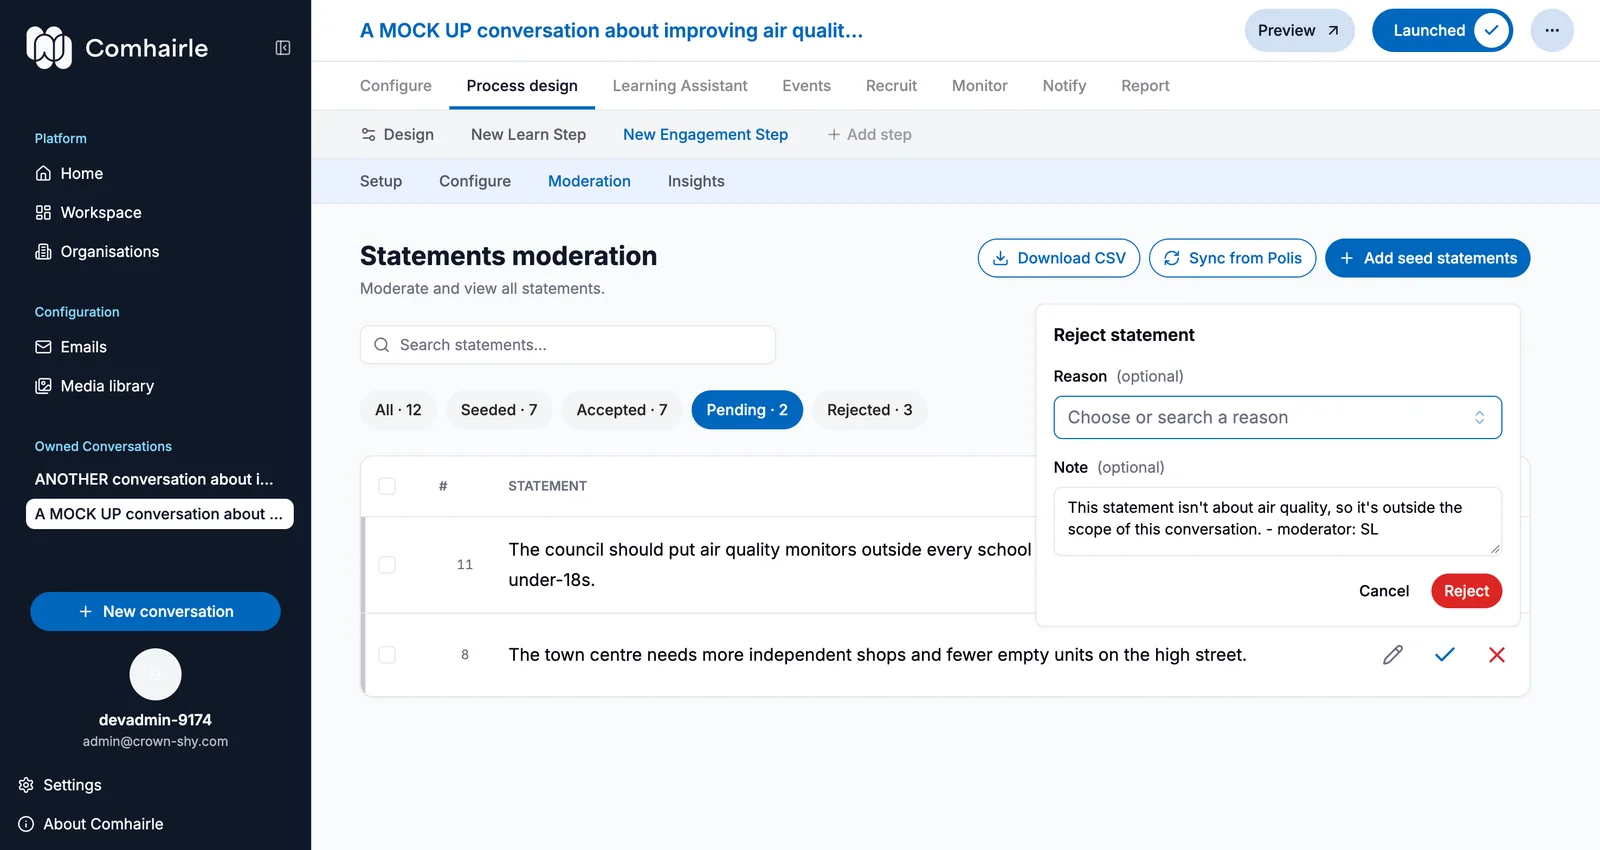
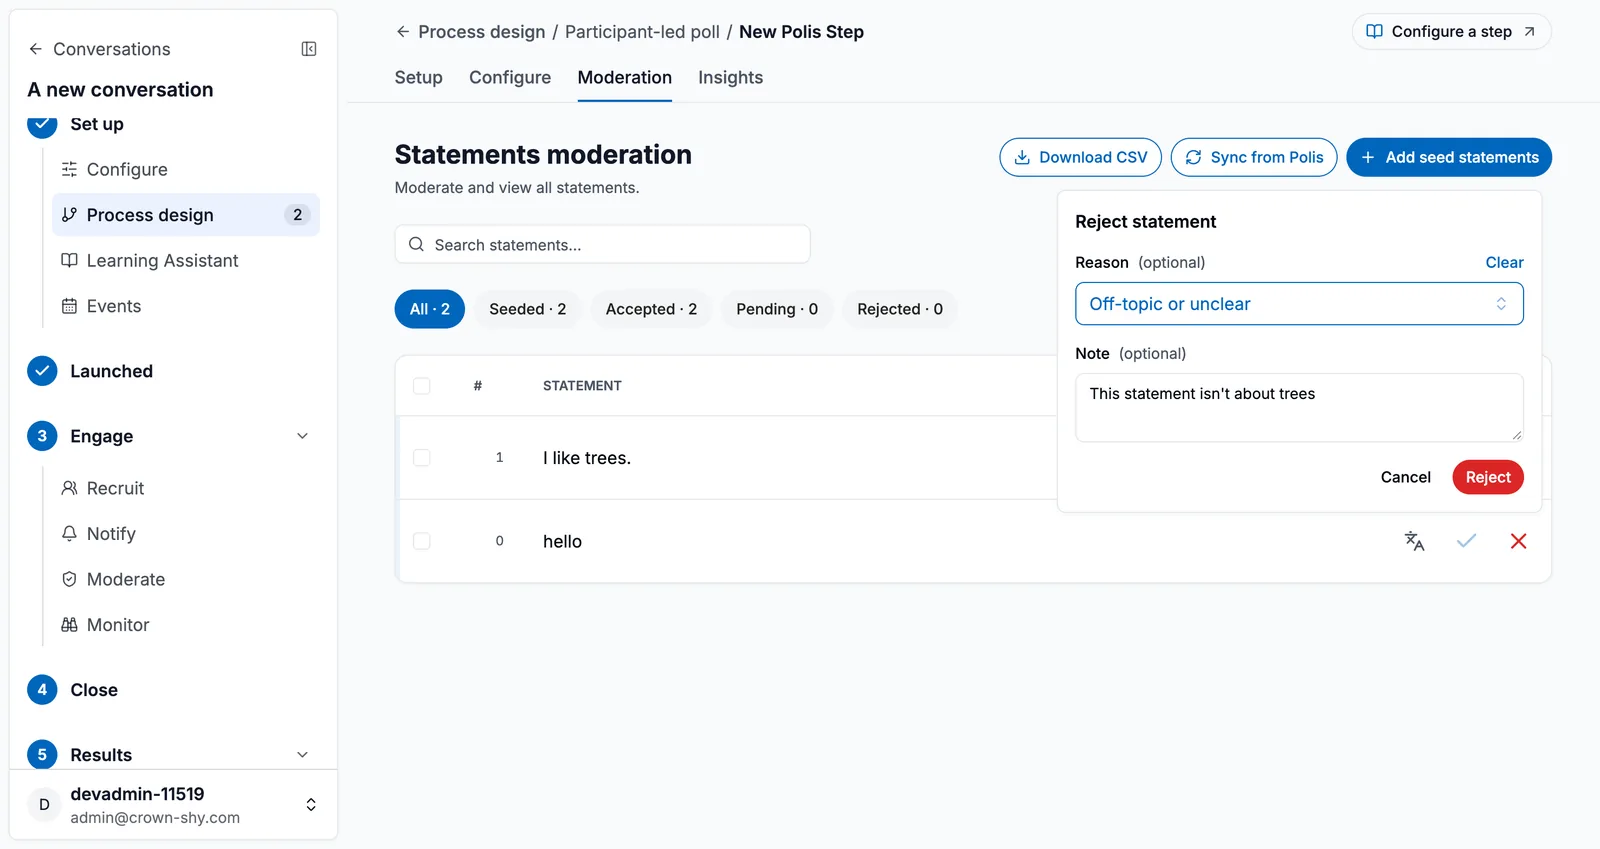
Retake moderation in depth, reject and split screenshots

diff --git a/ui/packages/comhairle/src/lib/admin_guides.ts b/ui/packages/comhairle/src/lib/admin_guides.ts
@@ -34,9 +34,13 @@ import arrangeStepOrderImage from './assets/admin-guide/arrange-step-order.webp'
 import configureAStepImage from './assets/admin-guide/configure-a-step.webp';
 import configureAccessImage from './assets/admin-guide/configure-access.webp';
 import launchAConversationImage from './assets/admin-guide/launch-a-conversation.webp';
+import launchedImage from './assets/admin-guide/launched.webp';
 import recruitImage from './assets/admin-guide/recruit.webp';
 import monitorImage from './assets/admin-guide/monitor.webp';
 import moderateImage from './assets/admin-guide/moderate.webp';
+import stepNavigationImage from './assets/admin-guide/step-navigation.webp';
+import moderationInDepthImage from './assets/admin-guide/moderation-in-depth.webp';
+import closeAConversationImage from './assets/admin-guide/close-a-conversation.webp';
 import toggleRevisitAfterFinishImage from './assets/admin-guide/toggle-revisit-after-finish.webp';
 import rejectStatementImage from './assets/admin-guide/reject-statement.webp';
 import splitStatementImage from './assets/admin-guide/split-statement.webp';
@@ -413,12 +417,12 @@ export const ADMIN_GUIDES: Record<string, AdminGuide> = {
 					'Start with a ready-made conversation flow, then adapt the [steps](/admin/info/glossary#term-step) to suit your topic and what you want participants to do.',
 				image: {
 					src: chooseATemplateImage,
-					alt: "The Choose a template window. Templates such as Informed-participants survey and Citizen workshop are listed on the left, with the selected template's workflow steps on the right and an Apply template button."
+					alt: "The Choose a template window. Templates such as Informed-participants survey, Understand opinion groups and Citizen workshop are listed on the left, with the selected template's workflow steps on the right and a Get started button."
 				},
 				steps: [
 					'Before choosing a template, consider what you want to learn from the conversation, what you want participants to contribute, how they will contribute, and what they need to know first.',
 					'Go to **Process design** and click **Choose from templates**.',
-					'Choose a template that best matches the conversation you want to run.',
+					'Choose a template that best matches the conversation you want to run, then click **Get started**.',
 					'Adapt the template by adding, removing, or rearranging steps.'
 				],
 				tips: [
@@ -434,13 +438,13 @@ export const ADMIN_GUIDES: Record<string, AdminGuide> = {
 					'Build your own conversation flow by deciding what participants need to learn, consider, and contribute at each step.',
 				image: {
 					src: designStepsImage,
-					alt: "The Add a step window, listing step types such as Topic onboarding, Participant-led poll and Survey. The selected tool's description, examples and Best for list appear on the right, with an Add this step button."
+					alt: "The Add a step window. Step types such as Topic onboarding, Participant-led poll, Survey and Individual view exploration are listed on the left. The selected type's description, a link to its Introduction & setup guide, examples and a Best for list appear on the right, with an Add this step button."
 				},
 				steps: [
 					'Before designing your steps, consider what you want to learn from the conversation, what you want participants to contribute, how they will contribute, and what they need to know first.',
 					'Go to **Process design** and choose **Start from blank**.',
 					'Click **Add step**. You’ll be asked to choose an [engagement tool](/admin/info/glossary#term-engagement-tool) for the step, based on what you want participants to do.',
-					'Choose a tool to add the step to your conversation.',
+					'Choose a tool, then click **Add this step** to add it to your conversation.',
 					'Repeat this for each stage of your conversation, then arrange the steps in the order you want participants to go through them.'
 				],
 				tips: [
@@ -458,13 +462,13 @@ export const ADMIN_GUIDES: Record<string, AdminGuide> = {
 					'Set the order of your [steps](/admin/info/glossary#term-step). Participants will go through them from top to bottom.',
 				image: {
 					src: arrangeStepOrderImage,
-					alt: "The Process steps page with two step cards. A step's actions menu is open, showing Move up, Move down, Rename, Learn more and Delete."
+					alt: "Process design with two step cards, New Survey Step and New Polis Step. The second step's actions menu is open, showing Move up, Move down, Rename, Learn more and Delete."
 				},
 				steps: [
 					'Go to **Process design**.',
 					'Drag a step card up or down to change its position.',
 					'Alternatively, open the step’s actions menu :actions: and select **Move up** or **Move down**.',
-					'You can also use this menu to **Rename** or **Delete** a step.'
+					'You can also use this menu to **Rename** or **Delete** a step, or select **Learn more** to read about its engagement tool.'
 				],
 				tips: [
 					'Think about the participant journey when ordering your steps: what do they need to know or consider before moving on to the next activity?',
@@ -606,10 +610,22 @@ export const ADMIN_GUIDES: Record<string, AdminGuide> = {
 				navLabel: 'Launch a conversation',
 				summary:
 					'[Launch](/admin/info/glossary#term-launch) your conversation when it is ready for participants to take part.',
-				image: {
-					src: launchAConversationImage,
-					alt: 'The Launch page. Before you launch lists Preview it as a participant, Process design, Details and access, and Team. Below it, a warning box explains what happens when you launch, above the Launch conversation button, highlighted in yellow.'
-				},
+				images: [
+					{
+						src: launchAConversationImage,
+						alt: 'The Launch page. Before you launch lists Preview it as a participant, Process design, Details and access, and Team. Below it, a warning box explains what happens when you launch, above the Launch conversation button, highlighted in yellow.',
+						caption:
+							'The Launch page, with the Launch conversation button below Before you launch.',
+						step: 3
+					},
+					{
+						src: launchedImage,
+						alt: 'The Launched page, confirming Your conversation is launched, with a Conversation link card (Copy link and Open buttons) and Next steps such as Invite participants, Keep participants informed and Follow participation.',
+						caption:
+							'After launching, the page shows your conversation link and what to do next.',
+						step: 4
+					}
+				],
 				steps: [
 					'Open **Launch** in the sidebar.',
 					'Work through **Before you launch**, including a final **Preview**, to make sure everything is ready.',
@@ -636,10 +652,11 @@ export const ADMIN_GUIDES: Record<string, AdminGuide> = {
 					'Once your conversation is launched, use **Recruit** to invite people to take part by link, QR code or email.',
 				image: {
 					src: recruitImage,
-					alt: 'The Recruit page on its Email tab, with an Emails field for a comma-separated list of addresses, Invite valid for options and a Submit button, above the Email Invite List. Open Links and Physical tabs are at the top.'
+					alt: 'The Recruit page on its Email tab. A Conversation link card with Copy link and Open buttons sits above an Emails field, Invite valid for options and a Submit button. Open Links and Physical tabs are at the top.'
 				},
 				steps: [
 					'Open **Recruit**. It becomes available after you launch the conversation.',
+					'Under **Conversation link**, click **Copy link** to share the conversation’s main link, or **Open** to check it.',
 					'Go to **Open Links**.',
 					'Click **New Invite Link** to create a link you can share. Give it a **Label**, such as "Newsletter" or "Town hall", so you can tell your links apart.',
 					'Copy the **Link**, or use its **QR code** on posters and at in-person events.',
@@ -659,7 +676,7 @@ export const ADMIN_GUIDES: Record<string, AdminGuide> = {
 					'Use **Monitor** to see how many people are taking part, how far they get through your steps, and how long it takes them.',
 				image: {
 					src: monitorImage,
-					alt: 'The Monitor page. Overview shows Total Users, Active Now, Time Spent and Completed, above a Daily signups chart.'
+					alt: 'The Monitor page under Engage. Overview shows Total Users, Active Now, Time Spent and Completed, above a Daily signups chart with Signups and Active counts.'
 				},
 				steps: [
 					'Open **Monitor**. It becomes available after you launch the conversation.',
@@ -701,7 +718,7 @@ export const ADMIN_GUIDES: Record<string, AdminGuide> = {
 					'Send a message to everyone who has taken part in your conversation, for example to share an update or invite them back.',
 				image: {
 					src: notifyImage,
-					alt: 'The Notify page, with Delivery method set to In-app notification, Notification title and Message content fields, a Send notification to all participants button, and a Recipients preview showing how many participants will receive it.'
+					alt: 'The Notify page under Engage, with Delivery method set to In-app notification, Notification title and Message content fields and a Send notification to all participants button. A Recipients preview on the right shows who will receive it.'
 				},
 				steps: [
 					'Open **Notify**. It becomes available after you launch the conversation.',
@@ -724,11 +741,11 @@ export const ADMIN_GUIDES: Record<string, AdminGuide> = {
 					'In a Participant-led poll, participants can write their own statements. Moderate them so that only appropriate statements are shown to others.',
 				image: {
 					src: moderateImage,
-					alt: 'The Moderation tab of a Participant-led poll step. Statements can be filtered by All, Seeded, Accepted, Pending and Rejected, and the Reject statement window lists reasons such as Off-topic or unclear, Harmful or abusive, and Advertising or campaigning.'
+					alt: 'The Moderation tab of a Participant-led poll step in Process design. Statements moderation has Download CSV, Sync from Polis and Add seed statements buttons, a search box, the All, Seeded, Accepted, Pending and Rejected filters, and a list of statements. The Reject statement popover is open, with an optional Reason and Note, and Cancel and Reject buttons.'
 				},
 				steps: [
 					'Before you launch, set your reasons for rejecting statements, such as "Off-topic", under **Configure** → **Moderation policy**.',
-					'Open **Moderate** under **Engage** in the sidebar, then click **Moderate step** on the Participant-led poll step.',
+					'In **Process design**, open the Participant-led poll step and go to its **Moderation** tab.',
 					'Filter statements by **Pending**, **Accepted**, **Rejected**, **Seeded** or **All**, or search for a word.',
 					'Accept or reject each statement. When you reject a statement, choose a reason from your moderation policy.'
 				],
@@ -752,11 +769,12 @@ export const ADMIN_GUIDES: Record<string, AdminGuide> = {
 					'Use **Report** to summarise what came out of your conversation, record its impact, and share the results.',
 				image: {
 					src: reportImage,
-					alt: 'The Report page, with View Report and Publish Report at the top and a Summary editor containing an executive summary of participants, statements and votes cast.'
+					alt: 'The Report page under Results, with View Report and a Publish Report switch at the top, then a Summary editor and a Report body editor, each with formatting tools and an Embed report component button.'
 				},
 				steps: [
 					'Open **Report**. It becomes available after you launch the conversation.',
-					'Under **Summary**, write an overall summary of the conversation.',
+					'Under **Summary**, write a short introduction. It appears at the top of the public report.',
+					'Under **Report body**, write the full report. Click **Embed report component** to add findings from the conversation, such as charts, into the text.',
 					'Under **Facilitator Notes**, click **Add feedback** to record notes gathered by facilitators.',
 					'Under **Impacts**, click **Add an impact** to record what the conversation has led to, and choose an **Impact Type**: **Policy**, **Debate** or **Followup Conversation**.',
 					'Turn on **Publish Report** to make the report public, then click **View Report** to see it as others will.'
@@ -772,6 +790,10 @@ export const ADMIN_GUIDES: Record<string, AdminGuide> = {
 				navLabel: 'Close a conversation',
 				summary:
 					'Close your conversation when the engagement period is over. Participants can no longer take part, and everything collected so far stays available.',
+				image: {
+					src: closeAConversationImage,
+					alt: 'The Close page, with a Before you close checklist: Let participants know, Check final participation and Start your report. Below it, a What happens when you close box explains that participants can no longer take part, everything collected stays available in Monitor and Report, and the conversation can be re-opened. A Close conversation button sits at the bottom.'
+				},
 				steps: [
 					'Open **Close** in the sidebar. It becomes available after you launch the conversation.',
 					'Work through **Before you close**: let participants know, check the final numbers in **Monitor**, and start your **Report**.',
@@ -799,9 +821,10 @@ export const ADMIN_GUIDES: Record<string, AdminGuide> = {
 				summary:
 					'Get to know the [moderation](/admin/info/glossary#term-moderation) screen for a Participant-led poll, then work through the decision each new statement needs and how to carry it out.',
 				image: {
-					src: moderateImage,
-					alt: 'The Statements moderation screen, with Download CSV, Sync from Polis and Add seed statements buttons above a search box, the All, Seeded, Accepted, Pending and Rejected tabs, and a list of statements with edit, accept and reject icons.',
-					caption: 'The moderation screen for a Participant-led poll step.'
+					src: moderationInDepthImage,
+					alt: 'The Moderation tab of a Participant-led poll step, filtered to Accepted. Two statements have an Edited badge and Edited from: the original statement about park benches and bins. Each row has translate, pencil, tick and cross icons, and Download CSV, Sync from Polis and Add seed statements buttons sit above the search box and filters.',
+					caption:
+						'The moderation screen for a Participant-led poll step, showing two statements split from one.'
 				},
 				environment: {
 					title: 'The moderation screen',
@@ -867,7 +890,7 @@ export const ADMIN_GUIDES: Record<string, AdminGuide> = {
 							result: 'The statement moves to **Rejected** and is hidden from participants. The reason and note are kept in the moderation log for your team; participants are not told why.',
 							image: {
 								src: rejectStatementImage,
-								alt: 'The Reject statement popover next to a pending statement about high street shops, with an empty Reason field, a Note reading "This statement isn’t about air quality, so it’s outside the scope of this conversation. - moderator: SL", and Cancel and Reject buttons.',
+								alt: 'The Reject statement popover open on a statement’s row, with the Reason "Off-topic or unclear" chosen, a Note reading "This statement isn’t about trees", and Cancel and Reject buttons.',
 								caption:
 									'Rejecting an off-topic statement, with a note for the moderation log.'
 							}
@@ -883,7 +906,7 @@ export const ADMIN_GUIDES: Record<string, AdminGuide> = {
 							result: 'The new statements are posted and appear in **Accepted** with an **Edited** badge and **Edited from:** the original. The original is rejected. Votes do not carry over to the new statements.',
 							image: {
 								src: splitStatementImage,
-								alt: 'The Split or reword statement dialog. The original statement asks for air quality monitors outside every school and free buses for under-18s; below it are two replacement statements, one for each proposal, with Add another statement and Split statement buttons.',
+								alt: 'The Split or reword statement dialog. The original statement, "The park needs more benches near the playground and the bins should be emptied more often.", is split into two replacement statements, one about benches and one about bins, with Add another statement, Cancel and Split statement buttons.',
 								caption:
 									'Splitting a statement that makes two proposals into two separate statements.'
 							}
@@ -1043,8 +1066,8 @@ export const ADMIN_GUIDES: Record<string, AdminGuide> = {
 				summary:
 					'Three settings decide whether participants can skip steps, go back to them, and return after they have finished. Their effects overlap, so make these decisions together.',
 				image: {
-					src: configureAStepImage,
-					alt: 'A step’s Configure tab in Process design, showing its settings.',
+					src: stepNavigationImage,
+					alt: 'A step’s Configure tab in Process design, with Name, Description and Data protocol fields. Below them, highlighted, are the Revisitable step toggle (Can users revisit this step?), turned off, and the Required step toggle (Can users skip this step?), turned on.',
 					caption:
 						'A step’s Configure tab, where Required step and Revisitable step are set.'
 				},
